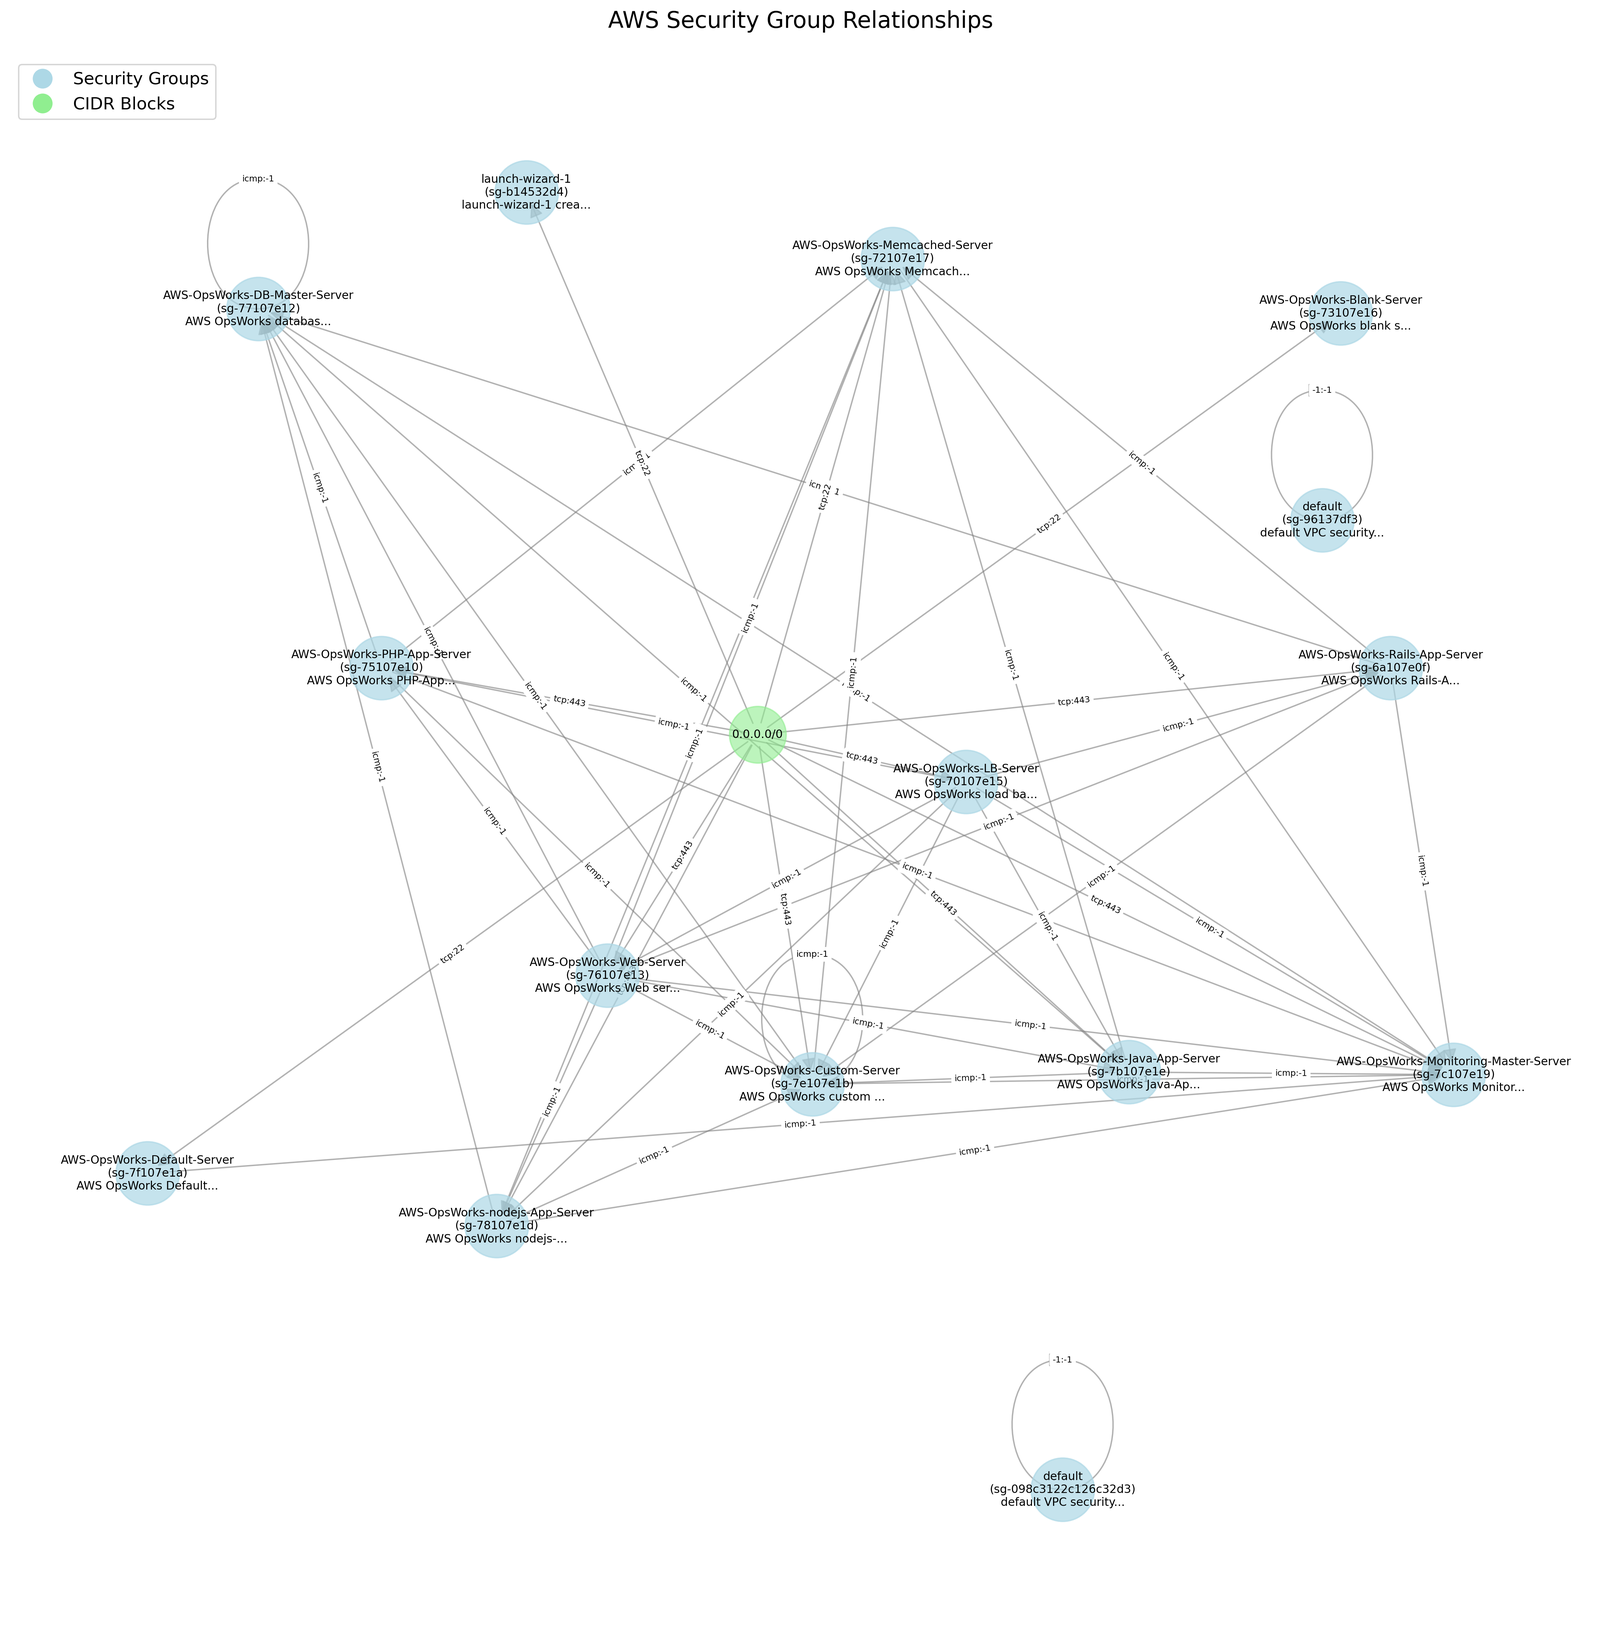
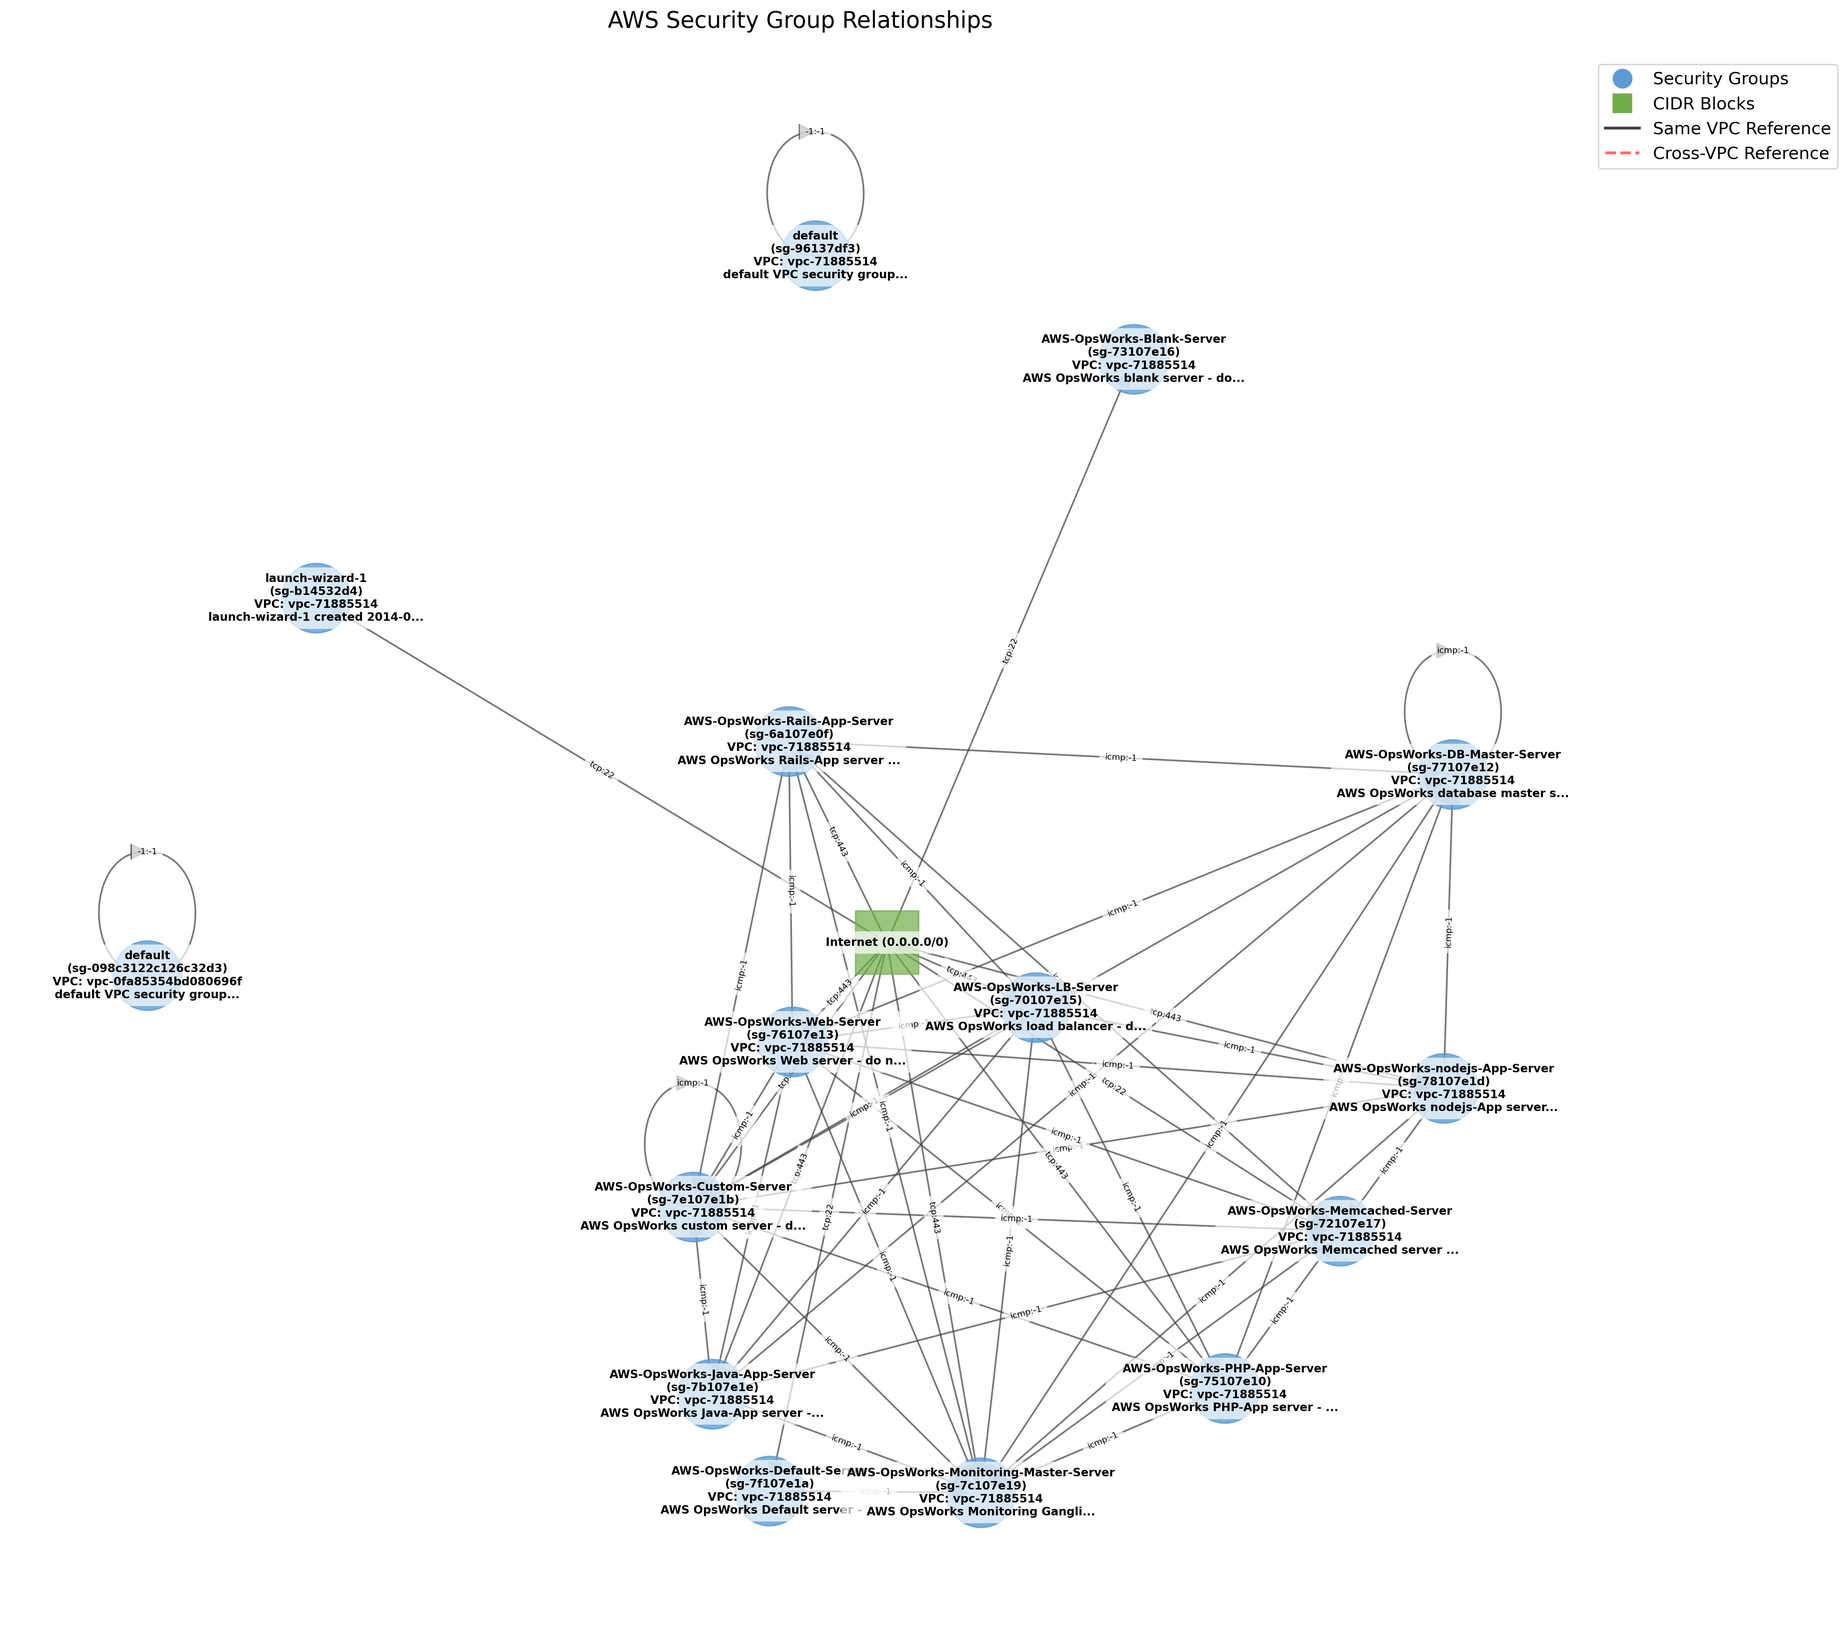
Agent query: I've added support for cross-VPC security group references with visual distinctions. Now you'll see:
- VPC ID displayed in each security group's label
- Dashed red lines for cross-VPC relationships
- Regular gray lines for same-VPC connections
- An updated legend showing both connection types

Would you like to test it with some specific security groups that have cross-VPC references to verify it works as expected?

Add support for filtering security groups by ID and improve graph generation with VPC and CIDR details.

diff --git a/graph_generator.py b/graph_generator.py
@@ -4,7 +4,7 @@ matplotlib.use('Agg')  # Use non-interactive backend for headless environments
 import matplotlib.pyplot as plt
 from typing import Dict, List
 from config import NODE_SIZE, FONT_SIZE, EDGE_WIDTH
-from utils import format_ports, logger
+from utils import format_ports, logger, get_friendly_cidr_name
 
 class GraphGenerator:
     def __init__(self):
@@ -15,14 +15,17 @@ class GraphGenerator:
         """Build NetworkX graph from security group data."""
         # Add nodes for each security group
         for sg in security_groups:
-            self.graph.add_node(sg['GroupId'], 
-                              name=sg.get('GroupName', ''),
-                              description=sg.get('Description', ''),
-                              type='security_group')
+            group_id = sg['GroupId']
+            group_name = sg.get('GroupName', 'Unknown')
+            description = sg.get('Description', '')
+            vpc_id = sg.get('VpcId', 'Unknown VPC')
 
-        # Add edges for security group relationships
-        for sg in security_groups:
-            source_id = sg['GroupId']
+            # Add the security group node with all attributes
+            self.graph.add_node(group_id, 
+                              name=group_name,
+                              description=description,
+                              vpc_id=vpc_id,
+                              type='security_group')
 
             # Process inbound rules
             for permission in sg.get('IpPermissions', []):
@@ -30,33 +33,50 @@ class GraphGenerator:
                 to_port = permission.get('ToPort', -1)
                 protocol = permission.get('IpProtocol', '-1')
 
-                # Handle security group references
+                # Handle security group references - add referenced groups if they exist
                 for group_pair in permission.get('UserIdGroupPairs', []):
                     target_id = group_pair.get('GroupId')
+                    target_vpc = group_pair.get('VpcId', 'Unknown VPC')
                     if target_id:
-                        edge_label = f"{protocol}:{format_ports(from_port, to_port)}"
-                        self.graph.add_edge(target_id, source_id, 
-                                             label=edge_label,
-                                             ports=f"{from_port}-{to_port}")
+                        # If the referenced group isn't in our filtered list, add a placeholder
+                        if target_id not in self.graph:
+                            self.graph.add_node(target_id,
+                                              name=f"Security Group {target_id}",
+                                              description="Referenced Security Group",
+                                              vpc_id=target_vpc,
+                                              type='security_group')
 
-                # Handle CIDR ranges
+                        edge_label = f"{protocol}:{format_ports(from_port, to_port)}"
+                        is_cross_vpc = vpc_id != target_vpc and target_vpc != 'Unknown VPC'
+                        self.graph.add_edge(target_id, group_id, 
+                                          label=edge_label,
+                                          ports=f"{from_port}-{to_port}",
+                                          is_cross_vpc=is_cross_vpc)
+
+                # Handle CIDR ranges with friendly names
                 for ip_range in permission.get('IpRanges', []):
                     cidr = ip_range.get('CidrIp')
                     if cidr:
-                        cidr_node = f"CIDR: {cidr}"
-                        self.graph.add_node(cidr_node, name=cidr, type='cidr')
+                        friendly_name = get_friendly_cidr_name(cidr)
+                        cidr_node = f"CIDR: {friendly_name}"
+                        self.graph.add_node(cidr_node, name=friendly_name, type='cidr')
                         edge_label = f"{protocol}:{format_ports(from_port, to_port)}"
-                        self.graph.add_edge(cidr_node, source_id,
-                                             label=edge_label,
-                                             ports=f"{from_port}-{to_port}")
+                        self.graph.add_edge(cidr_node, group_id,
+                                          label=edge_label,
+                                          ports=f"{from_port}-{to_port}",
+                                          is_cross_vpc=False)
 
     def generate_visualization(self, output_path: str) -> None:
         """Generate and save the graph visualization."""
+        if not self.graph.nodes():
+            logger.warning("No nodes in graph to visualize")
+            return
+
         try:
             plt.figure(figsize=(20, 20))
 
             # Use spring layout with adjusted parameters for better spacing
-            pos = nx.spring_layout(self.graph, k=2, iterations=50)
+            pos = nx.spring_layout(self.graph, k=3, iterations=100)  # Increased spacing and iterations
 
             # Draw nodes with different colors for security groups and CIDR blocks
             sg_nodes = [n for n, attr in self.graph.nodes(data=True) 
@@ -64,59 +84,101 @@ class GraphGenerator:
             cidr_nodes = [n for n, attr in self.graph.nodes(data=True) 
                          if attr.get('type') == 'cidr']
 
-            # Draw security group nodes
-            nx.draw_networkx_nodes(self.graph, pos,
-                                nodelist=sg_nodes,
-                                node_color='lightblue',
-                                node_size=NODE_SIZE,
-                                alpha=0.7)
+            # Draw security group nodes with enhanced visibility
+            if sg_nodes:
+                nx.draw_networkx_nodes(self.graph, pos,
+                                    nodelist=sg_nodes,
+                                    node_color='#5B9BD5',  # Professional blue
+                                    node_size=NODE_SIZE * 1.2,
+                                    alpha=0.8)
 
-            # Draw CIDR nodes
+            # Draw CIDR nodes with distinct appearance
             if cidr_nodes:
                 nx.draw_networkx_nodes(self.graph, pos,
                                     nodelist=cidr_nodes,
-                                    node_color='lightgreen',
-                                    node_size=NODE_SIZE*0.8,
-                                    alpha=0.6)
+                                    node_color='#70AD47',  # Professional green
+                                    node_shape='s',  # Square shape for CIDR nodes
+                                    node_size=NODE_SIZE,
+                                    alpha=0.7)
 
-            # Draw edges with arrows and better visibility
-            nx.draw_networkx_edges(self.graph, pos,
-                                edge_color='gray',
-                                width=EDGE_WIDTH,
-                                arrowsize=20,
-                                alpha=0.6)
+            # Draw edges with better visibility
+            if self.graph.edges():
+                # Separate cross-VPC edges
+                cross_vpc_edges = [(u, v) for u, v, d in self.graph.edges(data=True) if d.get('is_cross_vpc', False)]
+                normal_edges = [(u, v) for u, v, d in self.graph.edges(data=True) if not d.get('is_cross_vpc', False)]
+
+                # Draw normal edges
+                if normal_edges:
+                    nx.draw_networkx_edges(self.graph, pos,
+                                        edgelist=normal_edges,
+                                        edge_color='#404040',  # Darker gray
+                                        width=EDGE_WIDTH * 1.2,
+                                        arrowsize=25,
+                                        alpha=0.7)
+
+                # Draw cross-VPC edges with different style
+                if cross_vpc_edges:
+                    nx.draw_networkx_edges(self.graph, pos,
+                                        edgelist=cross_vpc_edges,
+                                        edge_color='#FF6B6B',  # Distinctive red for cross-VPC
+                                        width=EDGE_WIDTH * 1.5,
+                                        arrowsize=30,
+                                        style='dashed',
+                                        alpha=0.8)
 
             # Add labels with improved formatting
             labels = {}
             for node in self.graph.nodes():
-                name = self.graph.nodes[node]['name']
-                if self.graph.nodes[node].get('type') == 'security_group':
-                    desc = self.graph.nodes[node].get('description', '')
-                    labels[node] = f"{name}\n({node})\n{desc[:20]}..."
+                node_data = self.graph.nodes[node]
+                name = node_data.get('name', str(node))
+                if node_data.get('type') == 'security_group':
+                    vpc_id = node_data.get('vpc_id', 'Unknown VPC')
+                    desc = node_data.get('description', '')
+                    # Format security group labels with VPC info
+                    labels[node] = f"{name}\n({node})\nVPC: {vpc_id}\n{desc[:30]}..."
                 else:
+                    # Format CIDR labels
                     labels[node] = name
 
+            # Draw labels with white background for better readability
             nx.draw_networkx_labels(self.graph, pos,
                                 labels=labels,
-                                font_size=FONT_SIZE)
+                                font_size=FONT_SIZE,
+                                font_weight='bold',
+                                bbox=dict(facecolor='white', 
+                                         alpha=0.7,
+                                         edgecolor='none',
+                                         pad=4))
 
-            # Add edge labels with protocol and ports
+            # Add edge labels with improved visibility
             edge_labels = nx.get_edge_attributes(self.graph, 'label')
-            nx.draw_networkx_edge_labels(self.graph, pos,
-                                      edge_labels=edge_labels,
-                                      font_size=FONT_SIZE-2)
+            if edge_labels:
+                nx.draw_networkx_edge_labels(self.graph, pos,
+                                          edge_labels=edge_labels,
+                                          font_size=FONT_SIZE-2,
+                                          bbox=dict(facecolor='white',
+                                                  alpha=0.7,
+                                                  edgecolor='none'))
 
             plt.title("AWS Security Group Relationships", fontsize=16, pad=20)
             plt.axis('off')
 
-            # Add legend
-            legend_elements = [plt.Line2D([0], [0], marker='o', color='w',
-                                        markerfacecolor='lightblue', markersize=15,
-                                        label='Security Groups'),
-                             plt.Line2D([0], [0], marker='o', color='w',
-                                        markerfacecolor='lightgreen', markersize=15,
-                                        label='CIDR Blocks')]
-            plt.legend(handles=legend_elements, loc='upper left', fontsize=12)
+            # Add legend with improved style
+            legend_elements = [
+                plt.Line2D([0], [0], marker='o', color='w',
+                         markerfacecolor='#5B9BD5', markersize=15,
+                         label='Security Groups'),
+                plt.Line2D([0], [0], marker='s', color='w',
+                         markerfacecolor='#70AD47', markersize=15,
+                         label='CIDR Blocks'),
+                plt.Line2D([0], [0], color='#404040', lw=2,
+                         label='Same VPC Reference'),
+                plt.Line2D([0], [0], color='#FF6B6B', lw=2,
+                         linestyle='--', label='Cross-VPC Reference')]
+            plt.legend(handles=legend_elements, 
+                      loc='upper left', 
+                      fontsize=12,
+                      bbox_to_anchor=(1, 1))
 
             # Save with high DPI for better quality
             plt.savefig(output_path, dpi=300, bbox_inches='tight')
@@ -125,3 +187,4 @@ class GraphGenerator:
             logger.info(f"Graph visualization saved to {output_path}")
         except Exception as e:
             logger.error(f"Error generating visualization: {str(e)}")
+            raise

diff --git a/aws_sg_mapper.py b/aws_sg_mapper.py
@@ -20,10 +20,13 @@ def parse_arguments():
                        help='Clear cached data before running')
     parser.add_argument('--debug', action='store_true',
                        help='Enable debug logging')
+    parser.add_argument('--security-group-ids', nargs='+',
+                       help='Filter specific security group IDs (e.g., sg-123456)')
     return parser.parse_args()
 
 def collect_security_groups(profiles: List[str], regions: List[str], 
-                          cache_handler: CacheHandler) -> List[dict]:
+                          cache_handler: CacheHandler,
+                          security_group_ids: List[str] = None) -> List[dict]:
     """Collect security group data from specified profiles and regions."""
     all_security_groups = []
 
@@ -34,13 +37,25 @@ def collect_security_groups(profiles: List[str], regions: List[str],
             cached_data = cache_handler.get_cached_data(profile, region)
             if cached_data:
                 logger.info(f"Using cached data for {profile} in {region}")
-                all_security_groups.extend(cached_data)
+                if security_group_ids:
+                    filtered_groups = [sg for sg in cached_data if sg['GroupId'] in security_group_ids]
+                    all_security_groups.extend(filtered_groups)
+                else:
+                    all_security_groups.extend(cached_data)
                 continue
 
             # Fetch from AWS if not cached
             logger.debug(f"No cache found, fetching from AWS for {profile} in {region}")
             aws_client = AWSClient(profile, region)
-            security_groups = aws_client.get_security_groups()
+
+            if security_group_ids:
+                security_groups = []
+                for sg_id in security_group_ids:
+                    sg = aws_client.get_security_group_details(sg_id)
+                    if sg:
+                        security_groups.append(sg)
+            else:
+                security_groups = aws_client.get_security_groups()
 
             if security_groups:
                 logger.debug(f"Found {len(security_groups)} security groups")
@@ -57,7 +72,8 @@ def main():
         args = parse_arguments()
         setup_logging(args.debug)
         logger.info("Starting AWS Security Group Mapper")
-        logger.debug(f"Arguments: profiles={args.profiles}, regions={args.regions}, output={args.output}")
+        logger.debug(f"Arguments: profiles={args.profiles}, regions={args.regions}, "
+                    f"output={args.output}, security_group_ids={args.security_group_ids}")
 
         # Initialize handlers
         logger.debug("Initializing cache handler")
@@ -70,7 +86,8 @@ def main():
 
         # Collect security group data
         logger.info("Collecting security group data...")
-        security_groups = collect_security_groups(args.profiles, args.regions, cache_handler)
+        security_groups = collect_security_groups(args.profiles, args.regions, 
+                                               cache_handler, args.security_group_ids)
 
         if not security_groups:
             logger.error("No security groups found in any region/profile")

diff --git a/utils.py b/utils.py
@@ -9,6 +9,31 @@ logging.basicConfig(
 )
 logger = logging.getLogger(__name__)
 
+# Common CIDR block names
+COMMON_CIDRS = {
+    '0.0.0.0/0': 'Internet',
+    '10.0.0.0/8': 'Internal Network (Class A)',
+    '172.16.0.0/12': 'Internal Network (Class B)',
+    '192.168.0.0/16': 'Internal Network (Class C)',
+    '127.0.0.0/8': 'Localhost',
+    '169.254.0.0/16': 'Link Local',
+}
+
+def get_friendly_cidr_name(cidr: str) -> str:
+    """Get a friendly name for a CIDR block."""
+    if cidr in COMMON_CIDRS:
+        return f"{COMMON_CIDRS[cidr]} ({cidr})"
+
+    try:
+        network = ipaddress.ip_network(cidr)
+        if network.is_private:
+            return f"Private Network ({cidr})"
+        elif network.is_global:
+            return f"Public Network ({cidr})"
+        return cidr
+    except ValueError:
+        return cidr
+
 def setup_logging(debug: bool = False) -> None:
     """Configure logging level based on debug flag."""
     if debug:
